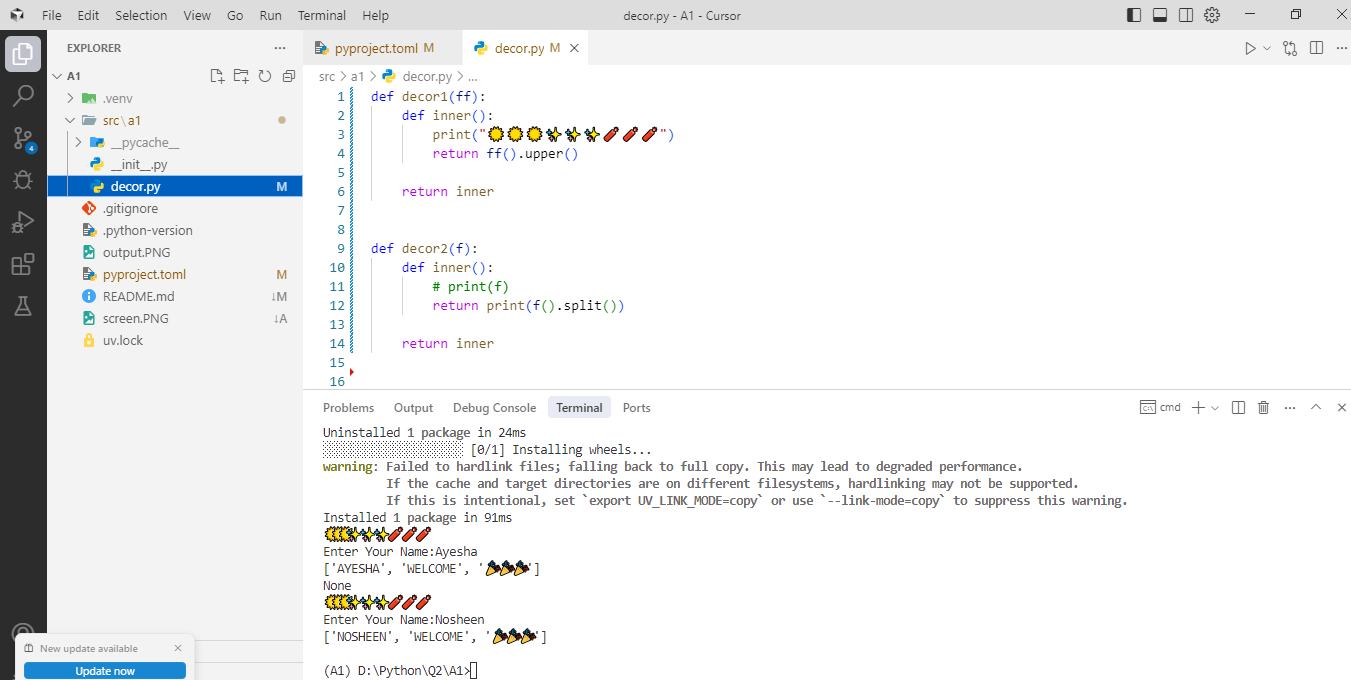
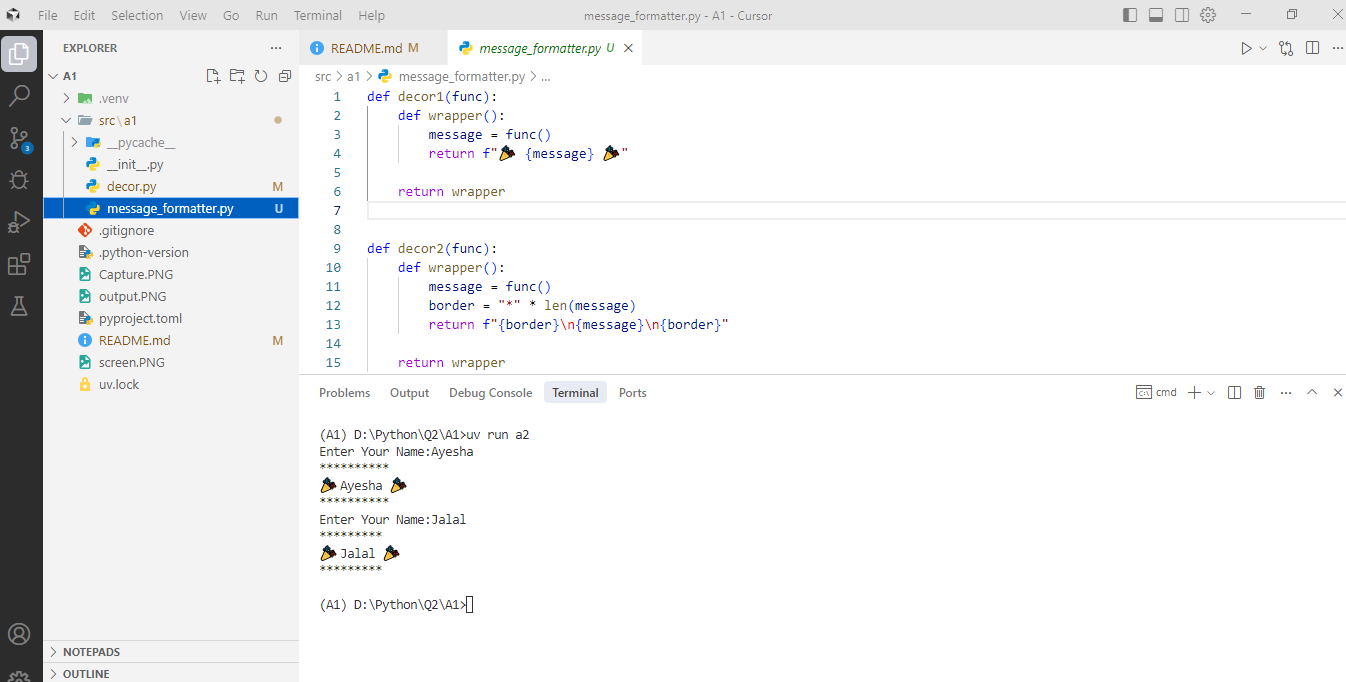
final

diff --git a/src/a1/decor.py b/src/a1/decor.py
@@ -1,24 +1,11 @@
-def decor1(ff):
-    def inner():
-        print("☀☀☀✨✨✨🧨🧨🧨")
-        return ff().upper()
-
-    return inner
-
-
-def decor2(f):
-    def inner():
-        # print(f)
-        return print(f().split())
-
-    return inner
+from a1.message_formatter import decor1, decor2
 
 
 @decor2
 @decor1
 def get_name():
+
     name = input("Enter Your Name:")
-    name = name + "   Welcome   " + "🎉🎉🎉"
 
     return name
 

diff --git a/src/a1/message_formatter.py b/src/a1/message_formatter.py
@@ -1,0 +1,15 @@
+def decor1(func):
+    def wrapper():
+        message = func()
+        return f"🎉 {message} 🎉"
+
+    return wrapper
+
+
+def decor2(func):
+    def wrapper():
+        message = func()
+        border = "*" * len(message)
+        return f"{border}\n{message}\n{border}"
+
+    return wrapper

diff --git a/README.md b/README.md
@@ -1,2 +1,88 @@
 <H3> PIAIC 253861</H3>
-<IMG SRC= "Capture.PNG" height = "300" width= "300"></IMG>
+
+Steps
+
+1.  Import the Decorators
+    from a1.message_formatter import decor1, decor2
+
+    This imports two decorators (decor1 and decor2) from a file/module named message_formatter.py in the a1 directory.
+
+    These decorators are:
+
+        decor1: Adds emojis around a message.
+
+        decor2: Adds a border of * above and below a message.
+
+2.  Function Definition with Decorators
+
+        First, decor1(get_name) is called. It wraps get_name() in a new function that:
+
+        Calls get_name()
+
+        Gets its return value (e.g., "Ayesha")
+
+        Adds emojis: 🎉 Ayesha 🎉
+
+        Then, decor2(...) is called on the result of decor1(...).
+
+        It wraps the decorated function from decor1.
+
+        It adds a border above and below the string returned by the inner (emoji-wrapped) function.
+
+        get_name() now does both decorations:
+
+Emoji from decor1
+
+Border from decor2
+
+Decor.py File
+
+Step 1: User Input
+Python executes get_name() (now the fully decorated version).
+
+Internally:
+
+It calls decor2's wrapper().
+
+Inside that, it calls decor1's wrapper().
+
+Inside that, it calls the original get_name() function.
+
+That prompts: Enter Your Name:
+
+Suppose user types: Ayesha
+
+Step 2: decor1 Modifies Output
+Original get_name() returns "Ayesha"
+
+decor1 wraps it: "🎉 Ayesha 🎉"
+
+Step 3: decor2 Modifies Output
+decor2 receives "🎉 Ayesha 🎉" from decor1
+
+It calculates length: len("🎉 Ayesha 🎉") = 11
+
+Builds border: "****\*\*\*****"
+
+Flow Chart
+User Input: "Ayesha"
+|
+v
+Original get_name() returns: "Ayesha"
+|
+v
+decor1 → "🎉 Ayesha 🎉"
+|
+v
+decor2 →
+
+---
+
+🎉 Ayesha 🎉
+
+---
+
+     |
+     v
+
+Printed to screen
